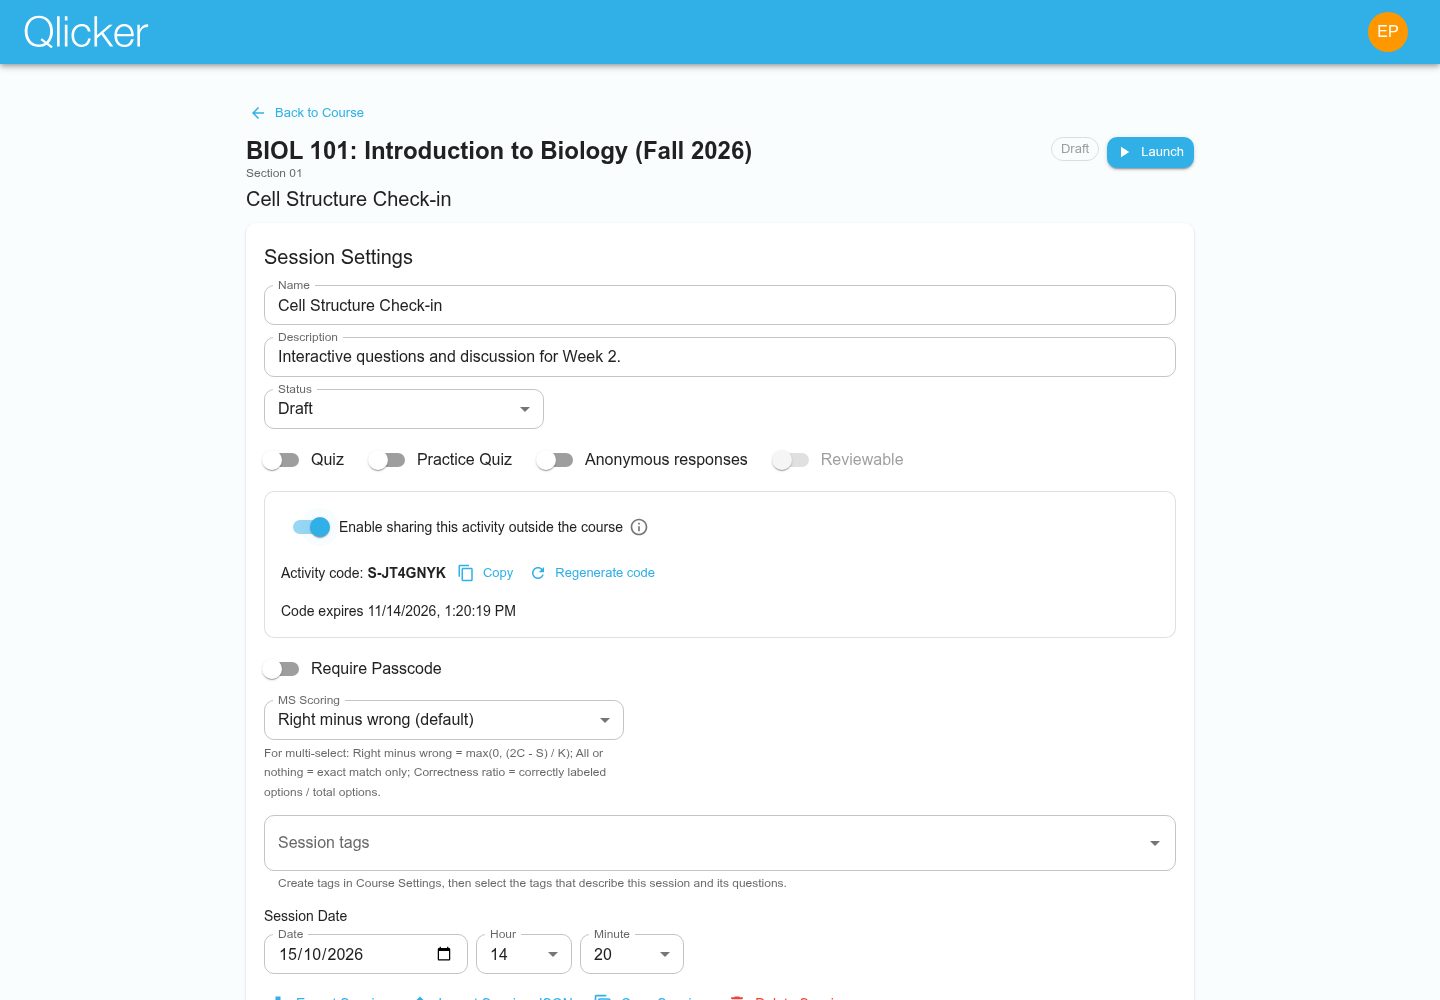
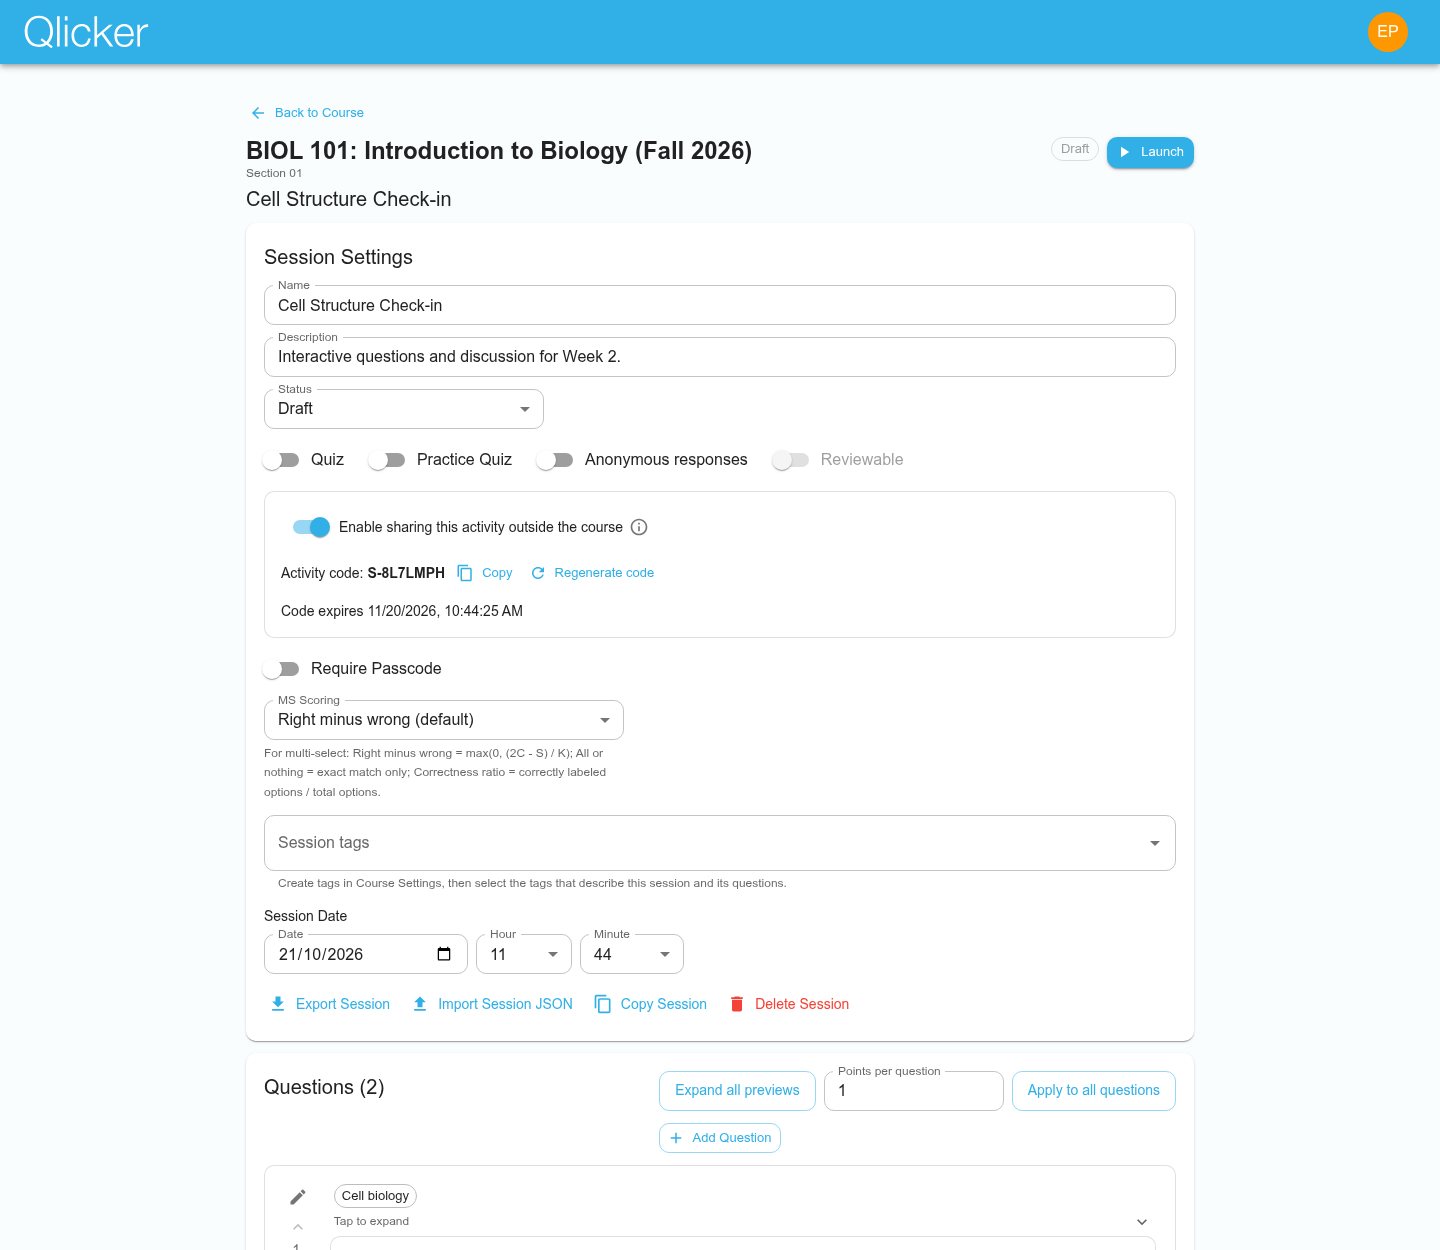
Explain unreleased grade averages and add bulk question previews

diff --git a/client/e2e/course-session-regressions.spec.js b/client/e2e/course-session-regressions.spec.js
@@ -5,6 +5,71 @@ import {
   expectNoCriticalAccessibilityViolations, loginViaUi, patchSessionViaApi, patchSettingsViaApi, seedUsers,
 } from './helpers.js';
 
+test('session previews toggle together and student averages appear only after review publication', async ({ page, request, browser }) => {
+  const { admin, professor, student } = await seedUsers(request);
+  const course = await createCourseViaApi(request, admin.token);
+  await addInstructorToCourseViaApi(request, admin.token, course._id, professor.user._id);
+  await enrollStudentViaApi(request, student.token, course.enrollmentCode);
+  const session = await createSessionViaApi(request, professor.token, course._id, { name: 'Review release check' });
+  for (const content of ['First preview question', 'Second preview question']) {
+    const question = await createQuestionViaApi(request, professor.token, {
+      sessionId: session._id, courseId: course._id, content,
+    });
+    await addQuestionToSessionViaApi(request, professor.token, session._id, question._id);
+  }
+  await loginViaUi(page, professor.email, professor.password, /\/prof$/);
+  await page.setViewportSize({ width: 390, height: 844 });
+  await page.goto(`/prof/course/${course._id}/session/${session._id}`);
+  await page.getByRole('button', { name: 'Expand all previews', exact: true }).click();
+  await expect(page.getByRole('button', { name: 'Collapse question 1', exact: true })).toHaveAttribute('aria-expanded', 'true');
+  await expect(page.getByRole('button', { name: 'Collapse question 2', exact: true })).toHaveAttribute('aria-expanded', 'true');
+  await page.getByRole('button', { name: 'Collapse question 1', exact: true }).press('Enter');
+  await page.getByRole('button', { name: 'Expand all previews', exact: true }).click();
+  await page.getByRole('button', { name: 'Collapse all previews', exact: true }).click();
+  await expect(page.getByRole('button', { name: 'Expand question 1', exact: true })).toHaveAttribute('aria-expanded', 'false');
+  await expect(page.getByRole('button', { name: 'Expand question 2', exact: true })).toHaveAttribute('aria-expanded', 'false');
+  expect(await page.evaluate(() => document.documentElement.scrollWidth <= window.innerWidth)).toBe(true);
+  await expectNoCriticalAccessibilityViolations(page);
+
+  await patchSessionViaApi(request, professor.token, session._id, { status: 'done' });
+  const grades = await apiJson(request, 'GET', `/courses/${course._id}/grades`, { token: professor.token });
+  expect(grades.response.status()).toBe(200);
+  const grade = grades.body.rows.find((row) => row.student.studentId === student.user._id).grades[0];
+  const edit = await apiJson(request, 'PATCH', `/grades/${grade._id}/value`, {
+    token: professor.token, payload: { value: 80 },
+  });
+  expect(edit.response.status()).toBe(200);
+  await page.goto(`/prof/course/${course._id}`);
+  await page.getByRole('combobox', { name: 'View', exact: true }).click();
+  await page.getByRole('option', { name: 'Grades', exact: true }).click();
+  await page.getByRole('button', { name: 'Show Grade Table', exact: true }).click();
+  const picker = page.getByRole('dialog', { name: /select sessions for grade table/i });
+  await picker.getByText(session.name, { exact: true }).click();
+  await picker.getByRole('button', { name: 'Show Table', exact: true }).click();
+  const professorRow = page.getByRole('row').filter({ hasText: student.email });
+  await expect(professorRow.getByRole('cell', { name: '80%', exact: true })).toHaveCount(2);
+
+  const studentContext = await browser.newContext();
+  try {
+    const studentPage = await studentContext.newPage();
+    await loginViaUi(studentPage, student.email, student.password, /\/student$/);
+    await studentPage.goto(`/student/course/${course._id}`);
+    await studentPage.getByRole('tab', { name: 'Grades', exact: true }).click();
+    await expect(studentPage.getByRole('alert')).toContainText('No sessions are available for review yet');
+    await expect(studentPage.getByText('Not applicable', { exact: true })).toHaveCount(2);
+    await expectNoCriticalAccessibilityViolations(studentPage);
+
+    await patchSessionViaApi(request, professor.token, session._id, { reviewable: true });
+    await studentPage.reload();
+    await studentPage.getByRole('tab', { name: 'Grades', exact: true }).click();
+    const studentRow = studentPage.getByRole('row').filter({ hasText: student.email });
+    await expect(studentRow.getByRole('cell', { name: '80%', exact: true })).toHaveCount(2);
+    await expect(studentPage.getByText(/No sessions are available for review yet/)).toHaveCount(0);
+  } finally {
+    await studentContext.close();
+  }
+});
+
 test('course settings retain their tab and course searches start expanded', async ({ page, request, browser }) => {
   const { admin, professor, student } = await seedUsers(request);
   const course = await createCourseViaApi(request, admin.token);

diff --git a/client/src/pages/professor/SessionEditor.test.jsx b/client/src/pages/professor/SessionEditor.test.jsx
@@ -195,6 +195,49 @@ describe('SessionEditor inline close behavior', () => {
     });
   });
 
+  it('expands and collapses all previews while preserving individual toggles', async () => {
+    const originalGet = apiClientMock.get.getMockImplementation();
+    apiClientMock.get.mockImplementation(async (url) => {
+      if (url === '/sessions/session-1') {
+        const result = await originalGet(url);
+        result.data.session.questions = ['q1', 'q2'];
+        return result;
+      }
+      if (url === '/questions/q2') {
+        const result = await originalGet('/questions/q1');
+        result.data.question._id = 'q2';
+        return result;
+      }
+      return originalGet(url);
+    });
+    render(<SessionEditor />);
+
+    const expandAll = await screen.findByRole('button', { name: 'professor.sessionEditor.expandAllPreviews' });
+    expect(screen.getAllByRole('button', { name: 'professor.sessionEditor.expandQuestion', expanded: false })).toHaveLength(2);
+    fireEvent.click(expandAll);
+    expect(screen.getAllByRole('button', { name: 'professor.sessionEditor.collapseQuestion', expanded: true })).toHaveLength(2);
+
+    fireEvent.keyDown(screen.getAllByRole('button', { name: 'professor.sessionEditor.collapseQuestion' })[0], { key: 'Enter' });
+    expect(screen.getAllByRole('button', { name: 'professor.sessionEditor.expandQuestion', expanded: false })).toHaveLength(1);
+    fireEvent.click(screen.getByRole('button', { name: 'professor.sessionEditor.expandAllPreviews' }));
+    expect(screen.getAllByRole('button', { name: 'professor.sessionEditor.collapseQuestion', expanded: true })).toHaveLength(2);
+
+    fireEvent.click(screen.getByRole('button', { name: 'professor.sessionEditor.collapseAllPreviews', expanded: true }));
+    expect(screen.getAllByRole('button', { name: 'professor.sessionEditor.expandQuestion', expanded: false })).toHaveLength(2);
+    expect(apiClientMock.patch).not.toHaveBeenCalled();
+  });
+
+  it('disables the bulk preview control when the session has no questions', async () => {
+    const originalGet = apiClientMock.get.getMockImplementation();
+    apiClientMock.get.mockImplementation(async (url) => {
+      const result = await originalGet(url);
+      if (url === '/sessions/session-1') result.data.session.questions = [];
+      return result;
+    });
+    render(<SessionEditor />);
+    expect(await screen.findByRole('button', { name: 'professor.sessionEditor.expandAllPreviews' })).toBeDisabled();
+  });
+
   it('routes outer close buttons through the question editor close handler', async () => {
     render(<SessionEditor />);
 

diff --git a/server/test/routes/grades.test.js b/server/test/routes/grades.test.js
@@ -1954,6 +1954,37 @@ describe('course grade averages', () => {
     expect(bypass.json().rows[0]).toMatchObject({ avgParticipation: null, avgGrade: null });
   });
 
+  it('has no student average until sessions are reviewable, even when instructor grades exist', async () => {
+    const f = await fixture();
+    await Session.updateMany({ courseId: f.course._id }, { $set: { reviewable: false } });
+    const student = await authenticatedRequest(app, 'GET', `/api/v1/courses/${f.course._id}/grades`, { token: f.studentTokens[0] });
+    expect(student.statusCode).toBe(200);
+    expect(student.json().sessions).toEqual([]);
+    expect(student.json().rows).toHaveLength(1);
+    expect(student.json().rows[0]).toMatchObject({
+      student: { studentId: f.students[0]._id },
+      avgParticipation: null, avgGrade: null, grades: [],
+    });
+
+    const selectedIds = [f.first, f.second, f.missed].map((session) => session._id).join(',');
+    const instructor = await authenticatedRequest(app, 'GET', `/api/v1/courses/${f.course._id}/grades?sessionIds=${selectedIds}&studentId=${f.students[0]._id}`, { token: f.profToken });
+    expect(instructor.statusCode).toBe(200);
+    expect(instructor.json().rows[0]).toMatchObject({ avgParticipation: 50, avgGrade: 40 });
+
+    const published = await authenticatedRequest(app, 'PATCH', `/api/v1/sessions/${f.first._id}/reviewable`, {
+      token: f.profToken, payload: { reviewable: true },
+    });
+    expect(published.statusCode).toBe(200);
+    const releasedStudent = await authenticatedRequest(app, 'GET', `/api/v1/courses/${f.course._id}/grades`, { token: f.studentTokens[0] });
+    const releasedInstructor = await authenticatedRequest(app, 'GET', `/api/v1/courses/${f.course._id}/grades?sessionIds=${f.first._id}&studentId=${f.students[0]._id}`, { token: f.profToken });
+    expect(releasedStudent.json().sessions.map((session) => session._id)).toEqual([f.first._id]);
+    expect(releasedStudent.json().rows[0].avgGrade).not.toBeNull();
+    expect(releasedStudent.json().rows[0]).toMatchObject({
+      avgParticipation: releasedInstructor.json().rows[0].avgParticipation,
+      avgGrade: releasedInstructor.json().rows[0].avgGrade,
+    });
+  });
+
   it('uses only selected actual grade items for instructor averages and reports empty sessions', async () => {
     const f = await fixture();
     const ids = [f.first, f.second, f.missed, f.empty].map((s) => s._id).join(',');

diff --git a/client/src/pages/professor/SessionEditor.jsx b/client/src/pages/professor/SessionEditor.jsx
@@ -1032,6 +1032,15 @@ export default function SessionEditor() {
     handleMove(idx, direction);
   };
 
+  const allQuestionsExpanded = questions.length > 0
+    && questions.every((question) => !!expandedQuestions[question._id]);
+
+  const toggleAllQuestionsExpanded = () => {
+    setExpandedQuestions(Object.fromEntries(
+      questions.map((question) => [question._id, !allQuestionsExpanded])
+    ));
+  };
+
   const toggleQuestionExpanded = (questionId) => {
     setExpandedQuestions((prev) => ({ ...prev, [questionId]: !prev[questionId] }));
   };
@@ -1970,6 +1979,17 @@ export default function SessionEditor() {
         >
           <Typography variant="h6">{t('professor.sessionEditor.questionsCount', { count: questions.length })}</Typography>
           <Box sx={{ display: 'flex', alignItems: 'flex-start', gap: 1, flexWrap: 'wrap' }}>
+            <Button
+              variant="outlined"
+              onClick={toggleAllQuestionsExpanded}
+              disabled={questions.length === 0}
+              aria-expanded={allQuestionsExpanded}
+              sx={{ minHeight: 40 }}
+            >
+              {t(allQuestionsExpanded
+                ? 'professor.sessionEditor.collapseAllPreviews'
+                : 'professor.sessionEditor.expandAllPreviews')}
+            </Button>
             <TextField
               label={t('professor.sessionEditor.pointsPerQuestion')}
               type="number"
@@ -2251,9 +2271,9 @@ export default function SessionEditor() {
                             role="button"
                             tabIndex={0}
                             aria-expanded={isQuestionExpanded}
-                            aria-label={isQuestionExpanded
-                              ? `Collapse question ${displayedQuestionNumber}`
-                              : `Expand question ${displayedQuestionNumber}`}
+                            aria-label={t(isQuestionExpanded
+                              ? 'professor.sessionEditor.collapseQuestion'
+                              : 'professor.sessionEditor.expandQuestion', { number: displayedQuestionNumber })}
                           >
                             {normalizeTagValues(currentQuestion.tags || []).filter((tag) => tag.toLowerCase() !== 'qlicker').length > 0 ? (
                               <Box sx={{ display: 'flex', gap: 0.75, flexWrap: 'wrap', px: { xs: 0.25, sm: 0.5 }, pb: 0.5 }}>

diff --git a/client/e2e/manual-screenshots.spec.js b/client/e2e/manual-screenshots.spec.js
@@ -313,14 +313,14 @@ test('capture current user-manual screenshots', async ({ browser, request }) => 
   await professorPage.goto(`/prof/course/${course._id}/session/${interactive._id}`);
   await expect(professorPage.getByText('Cell Structure Check-in').first()).toBeVisible();
   await expect(professorPage.getByLabel('Enable sharing this activity outside the course')).toHaveCount(0);
-  await capture(professorPage, 'session-editor-sharing-disabled.png');
+  await capture(professorPage, 'session-editor-sharing-disabled.png', 1250);
   await apiJson(request, 'PATCH', `/courses/${course._id}`, {
     token: admin.token, payload: { allowSharedActivities: true },
   });
   await professorPage.reload();
   await professorPage.getByLabel('Enable sharing this activity outside the course').click();
   await expect(professorPage.getByTestId('activity-share-code')).toHaveText(/^S-[A-HJ-NP-Z2-9]{7}$/);
-  await capture(professorPage, 'session-editor.png');
+  await capture(professorPage, 'session-editor.png', 1250);
 
   await professorPage.goto(`/prof/course/${course._id}`);
   await professorPage.getByRole('button', { name: /Launch session Cell Structure Check-in/i }).click();

diff --git a/client/src/components/grades/CourseGradesPanel.test.jsx b/client/src/components/grades/CourseGradesPanel.test.jsx
@@ -126,6 +126,18 @@ describe('CourseGradesPanel', () => {
     expect(screen.queryByText(/5 ungraded/i)).not.toBeInTheDocument();
   });
 
+  it('explains unavailable student averages when no sessions are reviewable', async () => {
+    const payload = buildGradesPayload();
+    payload.sessions = [];
+    payload.rows[0] = { ...payload.rows[0], avgParticipation: null, avgGrade: null, grades: [] };
+    apiClient.get.mockResolvedValue({ data: payload });
+    render(<CourseGradesPanel courseId="course-1" instructorView={false} />);
+
+    expect(await screen.findByRole('alert')).toHaveTextContent('No sessions are available for review yet');
+    expect(screen.getAllByText('Not applicable')).toHaveLength(2);
+    expect(screen.queryByText('0%')).not.toBeInTheDocument();
+  });
+
   it('opens session review for student grade clicks without opening instructor dialogs', async () => {
     const onOpenSession = vi.fn();
     render(<CourseGradesPanel courseId="course-1" instructorView={false} onOpenSession={onOpenSession} />);

diff --git a/client/src/components/grades/CourseGradesPanel.jsx b/client/src/components/grades/CourseGradesPanel.jsx
@@ -2180,6 +2180,11 @@ export default function CourseGradesPanel({
             <Alert severity="error">{error}</Alert>
           ) : (
             <>
+              {!instructorView && visibleSessions.length === 0 && (
+                <Alert severity="info" sx={{ mb: 1.5 }}>
+                  {t('grades.coursePanel.noReviewableSessions')}
+                </Alert>
+              )}
               <TablePagination
                 component="div"
                 count={sortedRows.length}

diff --git a/docs/user-manual/grading.md b/docs/user-manual/grading.md
@@ -179,6 +179,8 @@ Check the correct answer, point value, multi-select method, numerical tolerance,
 
 Confirm the activity is reviewable and its grade is visible to students. Manual grading can exist instructor-side before release.
 
+The **Reviewable** control automatically synchronizes grade visibility; there is no separate grade-visibility control in the interface. If no sessions are reviewable, the student's course table has no grades to average and shows **Not applicable**, even when the instructor sees grades. Student averages use released grade items from reviewable sessions; instructor averages use grade items from the sessions selected for their table. Missing grade items are excluded and recorded zeros count.
+
 ### Duplicate or inconsistent legacy rows appear
 
 Do not fix production data manually in MongoDB. Operators/developers should back up first and use the documented maintenance scripts and current server protections; see [developer grading notes](../developer/grading.md).

diff --git a/docs/user-manual/student.md b/docs/user-manual/student.md
@@ -214,6 +214,8 @@ Not every detail is always released. The instructor controls reviewability and g
 
 The **Grades** tab shows only your own results from ended, reviewable sessions. Average grade and participation are the arithmetic means of your visible grade items in those sessions. Missing or unpublished grade items are excluded; recorded zeros, including missed work, count. When no applicable grade items exist, no average is shown.
 
+If none of the sessions are reviewable yet, the tab explains that grades have not been released and shows **Not applicable** for both averages. Your instructor may already see grades; they become available to you when the instructor makes the sessions reviewable.
+
 - Objective items may be graded automatically.
 - Short answers usually remain incomplete until an instructor assigns points.
 - Feedback can appear after the initial result.

diff --git a/docs/user-manual/professor.md b/docs/user-manual/professor.md
@@ -203,6 +203,8 @@ Use filters and **Select all filtered** carefully: bulk export/copy acts on the 
 
 In the session editor you can create a new question, add from the library, insert a slide, import JSON, and move pages up/down. Questions copied into a session become session-specific copies, so later session settings do not change the original library item.
 
+Use **Expand all previews** above the question list to open every preview, then **Collapse all previews** to close them. You can still expand or collapse individual previews. If only some are open, the bulk button expands them all.
+
 ![Session editor with settings and an ordered set of biology questions](../assets/manuals/session-editor.png)
 
 For each question, review:
